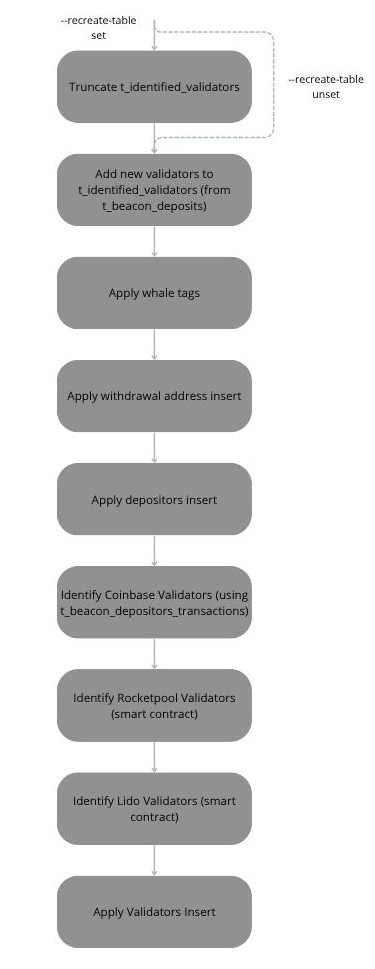
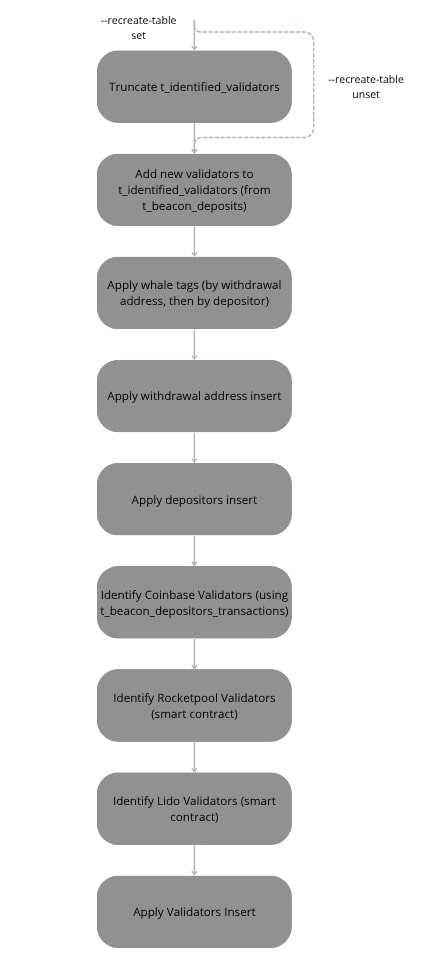
document new changes on whale tagging

diff --git a/README.md b/README.md
@@ -6,7 +6,9 @@ Identifying staking entities is tricky since this isn’t on-chain data in most 
 
 For the rest of the entities, other methods can be used like observing patterns in the depositor addresses like the ones found in this repository: [eth-deposits](https://github.com/alrevuelta/eth-deposits), and other off-chain data from contacts/data sources. When creating validators an address must deposit 32 ETH on the beaconchain contract. In most cases, entities share the same deposit address throughout multiple validators. By knowing a few of these cases, one can extrapolate the information and identify all of the validators that were generated by those addresses and thus identify the entities.
 
-This tool is used for tagging validators in [ethseer.io](https://ethseer.io/?network=mainnet).
+When depositing a validator, a withdrawal address is also provided. This address can be used to identify the entity that operates the validator, since in most cases, entities use the same withdrawal address for all of their validators.
+
+This tool is used for tagging validators shown in [migalabs.io](https://migalabs.io).
 
 ## Pre-requisites
 
@@ -176,7 +178,9 @@ This table has the columns `f_withdrawal_address` and `f_pool_name`. The `identi
 
 ## Whale tagging
 
-We use the following definition of a whale: unidentified depositor responsible for at least [`WHALE_THRESHOLD`](https://github.com/migalabs/eth-pokhar?tab=readme-ov-file#identify) validators. The tool will tag the whale with the `whale_0x....` tag (first 4 characters of the depositor address).
+We use the following definition of a whale: unidentified depositor/withdrawal address shared between at least [`WHALE_THRESHOLD`](https://github.com/migalabs/eth-pokhar?tab=readme-ov-file#identify) validators. The tool will tag the whale with the `whale_0x....` tag (first 4 characters of the depositor/withdrawal address).
+
+Note that the whale tagging process is done at the start of the identification process, so the whales will be tagged before any other identification process is done. This means that if a whale is identified as a pool/entity, it will be tagged with the `whale_0x....` tag and the pool/entity tag will override the whale tag, resulting in a possible whale of less than `WHALE_THRESHOLD` validators.
 
 ## Identification priority
 
